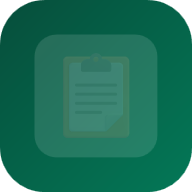
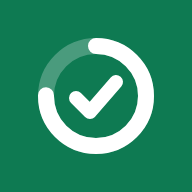
App-icoon: Ring (voortgangsring met vinkje)
Vervangt het oude 📋-icoon. De PNG's zijn randloos zodat Android ze als
maskable netjes rond kan snijden; het SVG-icoon houdt de afgeronde hoeken
en dient nu ook als favicon.

Claude-Session: https://claude.ai/code/session_01KLQiA9gMteNgGcQasBdc4F

diff --git a/index.html b/index.html
@@ -11,6 +11,7 @@
 <meta name="apple-mobile-web-app-capable" content="yes">
 <meta name="apple-mobile-web-app-status-bar-style" content="default">
 <meta name="apple-mobile-web-app-title" content="Routine">
+<link rel="icon" href="/icon.svg" type="image/svg+xml">
 <link rel="apple-touch-icon" href="/icon-192.png">
 
 </head>
